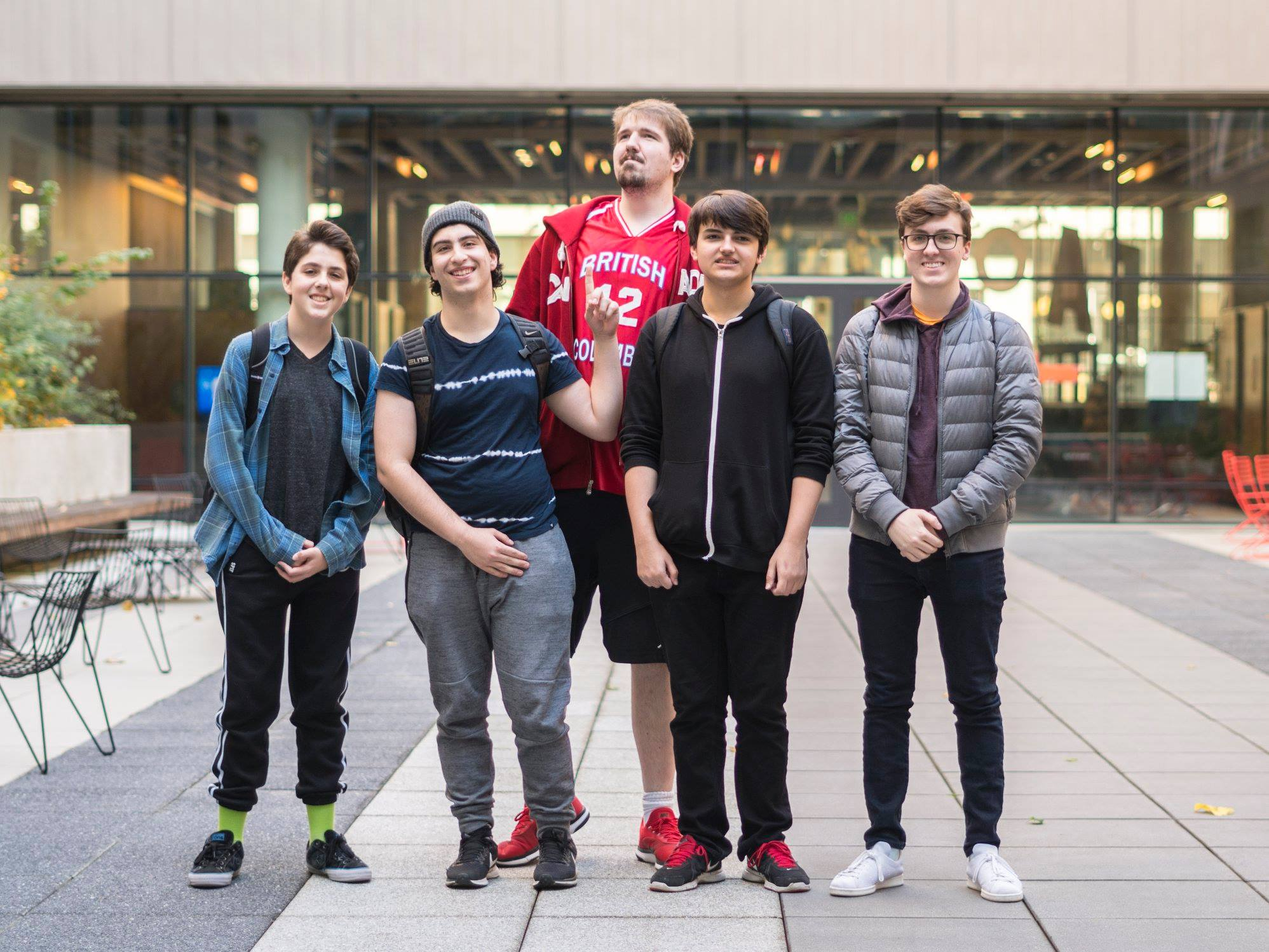
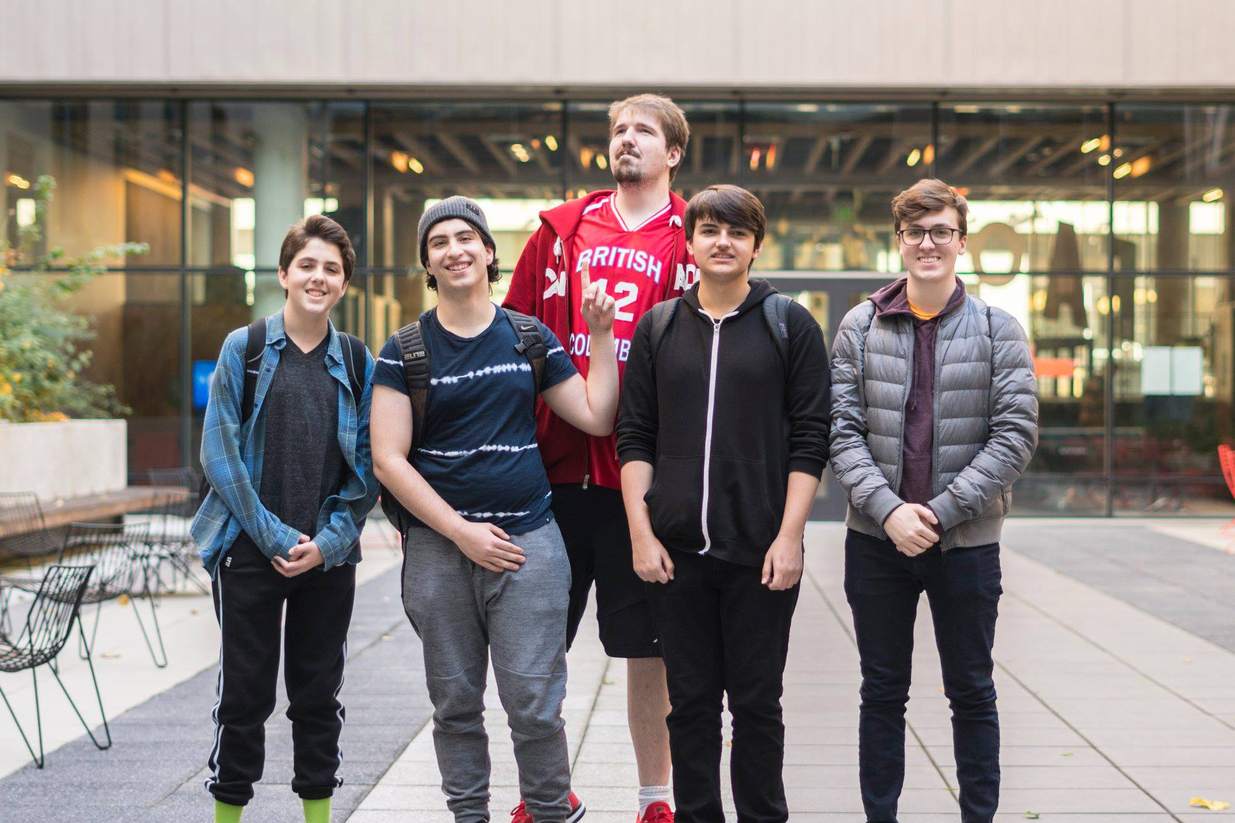
closes #9 added new photos as well as splash screen

diff --git a/src/pages/MainPage.js b/src/pages/MainPage.js
@@ -1,5 +1,5 @@
 import React, { Component } from 'react';
-import { Jumbotron, Container } from 'reactstrap';
+import { Container } from 'reactstrap';
 import { Link } from 'react-router-dom';
 import CarourselPictures from '../components/CarouselPictures';
 
@@ -8,15 +8,17 @@ class MainPage extends Component {
     render() {
         return (
             <React.Fragment>
-                <Jumbotron className="text-center mb-0 mt">
-                    <h1 className="display-4 text-uppercase">Washington Smash Bros. Ultimate</h1>
-                    <hr className="my-2" />
-                    <p className="lead">Your destination for connecting with players and learning about the game.</p>
-                </Jumbotron>
                 <section>
-                    <CarourselPictures></CarourselPictures>
+                    <div style={{ position: "relative" }}>
+                        <img src={require("../assets/ult.png")} alt="Logo" width="100%"></img>
+                        <div className="centered">
+                            <h1 style={{ fontSize: "5vw" }} className="text-uppercase">Washington Smash Bros. Ultimate</h1>
+                            <hr className="my-2" />
+                            <p style={{ fontSize: "3vw" }} className="lead">Your destination for connecting with players and learning about the game.</p>
+                        </div>
+                    </div>
                 </section>
-                <section style={{ margin: '7rem 0', textAlign: 'center' }}>
+                <section style={{ margin: '6rem 0', textAlign: 'center' }}>
                     <Container style={{ width: '80%' }}>
                         <h2 style={{ marginBottom: '1rem' }}>About this Site</h2>
                         <div className="lead">
@@ -24,9 +26,12 @@ class MainPage extends Component {
                                 Designed with the intention of bringing the community together, the Washington Ultimate Database provides players an easy way to connect with
                                 others for practice and sharing information.
                             </p>
-                            <p><Link to="/signin">Sign in</Link> or <Link to="/signup">sign up</Link> to add yourself to the database and start connecting with other players.</p>
+                            <p><Link to="/signin">Sign in</Link> or <Link to="/signup">sign up</Link> to add yourself to the <Link to="/database">database</Link> and start connecting with other players.</p>
                         </div>
                     </Container>
+                </section>
+                <section>
+                    <CarourselPictures></CarourselPictures>
                 </section>
             </React.Fragment>
         );

diff --git a/src/components/CarouselPictures.js b/src/components/CarouselPictures.js
@@ -42,6 +42,26 @@ const items = [
         src: require('../assets/picture7.jpg'),
         altText: 'Slide 7',
         caption: 'Slide 7'
+    },
+    {
+        src: require('../assets/picture8.jpg'),
+        altText: 'Slide 8',
+        caption: 'Slide 8'
+    },
+    {
+        src: require('../assets/picture9.jpg'),
+        altText: 'Slide 9',
+        caption: 'Slide 9'
+    },
+    {
+        src: require('../assets/picture10.jpg'),
+        altText: 'Slide 10',
+        caption: 'Slide 10'
+    },
+    {
+        src: require('../assets/picture11.jpg'),
+        altText: 'Slide 11',
+        caption: 'Slide 11'
     }
 ];
 

diff --git a/src/index.css b/src/index.css
@@ -39,6 +39,18 @@ main {
 	margin: 2rem 0rem;
 }
 
+.centered {
+	color: white;
+	text-align: center;
+	width: 80%;
+	font-weight: bold;
+	z-index: 99;
+	position: absolute;
+	top: 50%;
+	left: 50%;
+	transform: translate(-50%, -50%);
+}
+
 @media (min-width: 575px) {
 	
 	.label-space {
